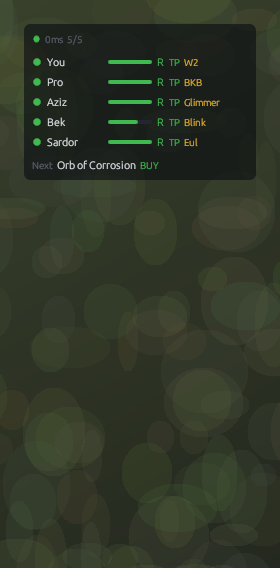
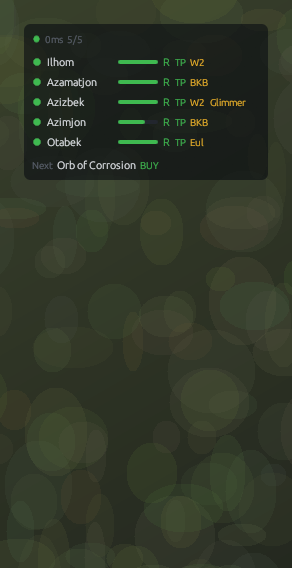
Demo uses the real team; names fit the compact rows
The demo's teammates are now Azamatjon, Azimjon, Otabek and Azizbek, with
heroes that match how they play, instead of made-up names. The name
column is wider (66 px) so the longest name, Azamatjon, is not cut off;
the panel grows from 232 to 244 px to keep the rest of the row.

diff --git a/crates/agent/src/demo.rs b/crates/agent/src/demo.rs
@@ -1,6 +1,6 @@
 //! `--demo`: fake game data so the overlay can be tried without Dota.
 //! Generates my own state (which is also sent to the relay, if connected) and
-//! four local-only fake teammates, one of whom keeps getting ganked.
+//! four local-only teammates (the real team), one of whom keeps getting ganked.
 
 use crate::team::{Notifier, SharedTeam};
 use protocol::{Ability, CalloutKind, Item, PlayerState, ServerMsg};
@@ -38,12 +38,14 @@ fn hero(name: &str, level: u32, x: f32, y: f32, items: &[&str]) -> PlayerState {
 pub async fn run(team: SharedTeam, notify: Arc<Notifier>, state_tx: watch::Sender<Option<PlayerState>>) {
     let mut me = hero("abaddon", 9, -2500.0, -1800.0, &["phase_boots", "magic_wand", "ward_observer"]);
     me.items[2].charges = Some(2);
+    // The real team (you are the player running the demo).
     let mut mates = vec![
-        (1001, "Pro", hero("juggernaut", 13, -5200.0, -3600.0, &["phase_boots", "bfury", "black_king_bar"])),
-        (1002, "Aziz", hero("crystal_maiden", 8, 1800.0, 600.0, &["tranquil_boots", "glimmer_cape", "ward_sentry"])),
-        (1003, "Bek", hero("axe", 11, 3100.0, 2900.0, &["blink", "vanguard", "blade_mail"])),
-        (1004, "Sardor", hero("lina", 12, -300.0, 200.0, &["arcane_boots", "cyclone"])),
+        (1001, "Azamatjon", hero("juggernaut", 13, -5200.0, -3600.0, &["phase_boots", "bfury", "black_king_bar"])),
+        (1002, "Azizbek", hero("lich", 8, 1800.0, 600.0, &["tranquil_boots", "glimmer_cape", "ward_observer", "ward_sentry"])),
+        (1003, "Azimjon", hero("faceless_void", 11, 3100.0, 2900.0, &["power_treads", "maelstrom", "black_king_bar"])),
+        (1004, "Otabek", hero("lina", 12, -300.0, 200.0, &["arcane_boots", "cyclone"])),
     ];
+    mates[1].2.items[2].charges = Some(2);
     {
         let mut t = team.lock().unwrap();
         for (id, name, _) in &mates {
@@ -57,9 +59,9 @@ pub async fn run(team: SharedTeam, notify: Arc<Notifier>, state_tx: watch::Sende
     loop {
         tick.tick().await;
         n += 1;
-        // 20 s script: 0-3 s Bek is ganked alone; 6-10 s Pro and Sardor
+        // 20 s script: 0-3 s Azimjon is ganked alone; 6-10 s Azamatjon and Otabek
         // join me with ults up (a good fight window); 10-14 s we fight and I
-        // get low; 14 s Pro calls retreat; then everyone recovers.
+        // get low; 14 s Azamatjon calls retreat; then everyone recovers.
         let cycle = n % 200;
         let clock = (n / 10) as i32 + 600;
         me.clock = clock;
@@ -93,41 +95,41 @@ pub async fn run(team: SharedTeam, notify: Arc<Notifier>, state_tx: watch::Sende
             }
         }
         {
-            let sardor = &mut mates[3].2;
+            let otabek = &mut mates[3].2;
             if (100..140).contains(&cycle) {
-                sardor.health = sardor.health.saturating_sub(18).max(300);
+                otabek.health = otabek.health.saturating_sub(18).max(300);
             } else {
-                sardor.health = (sardor.health + 8).min(sardor.max_health);
+                otabek.health = (otabek.health + 8).min(otabek.max_health);
             }
         }
         if cycle == 140 {
             team.lock().unwrap().apply(ServerMsg::Callout { id: 1001, server_ms: 0, kind: CalloutKind::Retreat, x: me.x, y: me.y });
         }
 
-        // Bek gets jumped every 20 s: 3 s of burst damage, dies on every other cycle.
-        let bek = &mut mates[2].2;
-        bek.clock = clock;
+        // Azimjon gets jumped every 20 s: 3 s of burst damage, dies on every other cycle.
+        let azimjon = &mut mates[2].2;
+        azimjon.clock = clock;
         if cycle < 30 {
-            if bek.alive {
-                bek.health = bek.health.saturating_sub(if (n / 200) % 2 == 0 { 25 } else { 60 });
-                if bek.health == 0 {
-                    bek.alive = false;
-                    bek.respawn_seconds = 25;
+            if azimjon.alive {
+                azimjon.health = azimjon.health.saturating_sub(if (n / 200) % 2 == 0 { 25 } else { 60 });
+                if azimjon.health == 0 {
+                    azimjon.alive = false;
+                    azimjon.respawn_seconds = 25;
                 }
             }
-        } else if !bek.alive {
+        } else if !azimjon.alive {
             if n % 10 == 0 {
-                bek.respawn_seconds = bek.respawn_seconds.saturating_sub(1);
+                azimjon.respawn_seconds = azimjon.respawn_seconds.saturating_sub(1);
             }
-            if bek.respawn_seconds == 0 {
-                bek.alive = true;
-                bek.health = bek.max_health;
+            if azimjon.respawn_seconds == 0 {
+                azimjon.alive = true;
+                azimjon.health = azimjon.max_health;
             }
         } else {
-            bek.health = (bek.health + 4).min(bek.max_health);
+            azimjon.health = (azimjon.health + 4).min(azimjon.max_health);
         }
         if cycle == 5 {
-            team.lock().unwrap().apply(ServerMsg::Callout { id: 1003, server_ms: 0, kind: CalloutKind::Help, x: bek.x, y: bek.y });
+            team.lock().unwrap().apply(ServerMsg::Callout { id: 1003, server_ms: 0, kind: CalloutKind::Help, x: azimjon.x, y: azimjon.y });
         }
         if cycle == 120 {
             team.lock().unwrap().apply(ServerMsg::Note {

diff --git a/crates/agent/src/overlay.rs b/crates/agent/src/overlay.rs
@@ -443,8 +443,8 @@ fn row(ui: &mut egui::Ui, m: &Mate, now: Instant, is_me: bool) {
             name_text = name_text.strong();
         }
         // Fixed-width, left-aligned name column so the bars line up.
-        ui.allocate_ui_with_layout(Vec2::new(56.0, 14.0), egui::Layout::left_to_right(egui::Align::Center), |ui| {
-            ui.set_min_width(56.0);
+        ui.allocate_ui_with_layout(Vec2::new(66.0, 14.0), egui::Layout::left_to_right(egui::Align::Center), |ui| {
+            ui.set_min_width(66.0);
             ui.add(egui::Label::new(name_text).truncate());
         });
 
@@ -467,7 +467,7 @@ fn row(ui: &mut egui::Ui, m: &Mate, now: Instant, is_me: bool) {
             Status::Low => AMBER,
             _ => GREEN,
         };
-        hp_bar(ui, st.hp_frac(), hp_color, 44.0);
+        hp_bar(ui, st.hp_frac(), hp_color, 40.0);
 
         if let Some(u) = st.ultimate().filter(|u| u.level > 0) {
             if u.cooldown == 0 {

diff --git a/crates/agent/src/setup.rs b/crates/agent/src/setup.rs
@@ -6,7 +6,7 @@ use crate::config::Config;
 use std::io::{self, BufRead, Write};
 
 /// Overlay width in logical pixels at scale 1.0 (keep in sync with overlay.rs).
-pub const OVERLAY_W: f32 = 232.0;
+pub const OVERLAY_W: f32 = 244.0;
 
 /// "203.0.113.10" -> "ws://203.0.113.10:4747/ws"; full ws:// URLs pass through.
 pub fn relay_url(input: &str) -> String {

diff --git a/README.md b/README.md
@@ -112,7 +112,7 @@ Open TCP port 4747 on that machine (and forward it on the router, if it's at hom
 3. In Steam, add `-gamestateintegration` to Dota 2's launch options, then restart Dota.
 4. In Dota, set Display Mode to **Borderless window**. The overlay can't draw over exclusive fullscreen.
 
-Try it without Dota: `cyberspyde-agent.exe --demo` (four fake teammates; one keeps getting ganked).
+Try it without Dota: `cyberspyde-agent.exe --demo` (your four teammates with fake game data; one keeps getting ganked).
 
 ### Hotkeys (change them in `agent.toml`)
 
